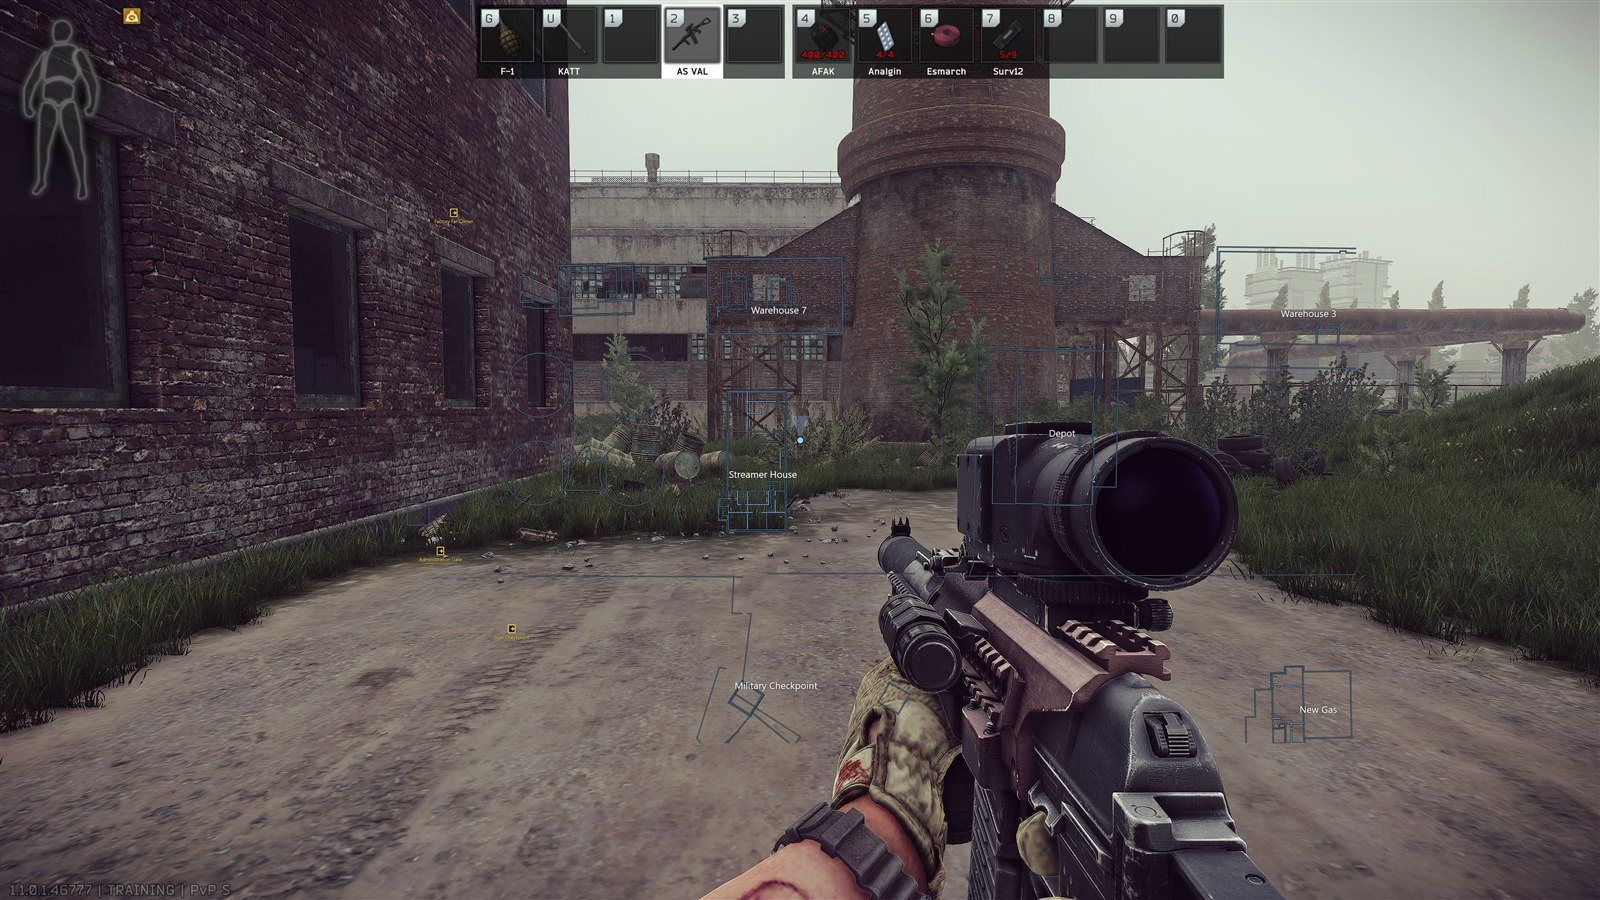
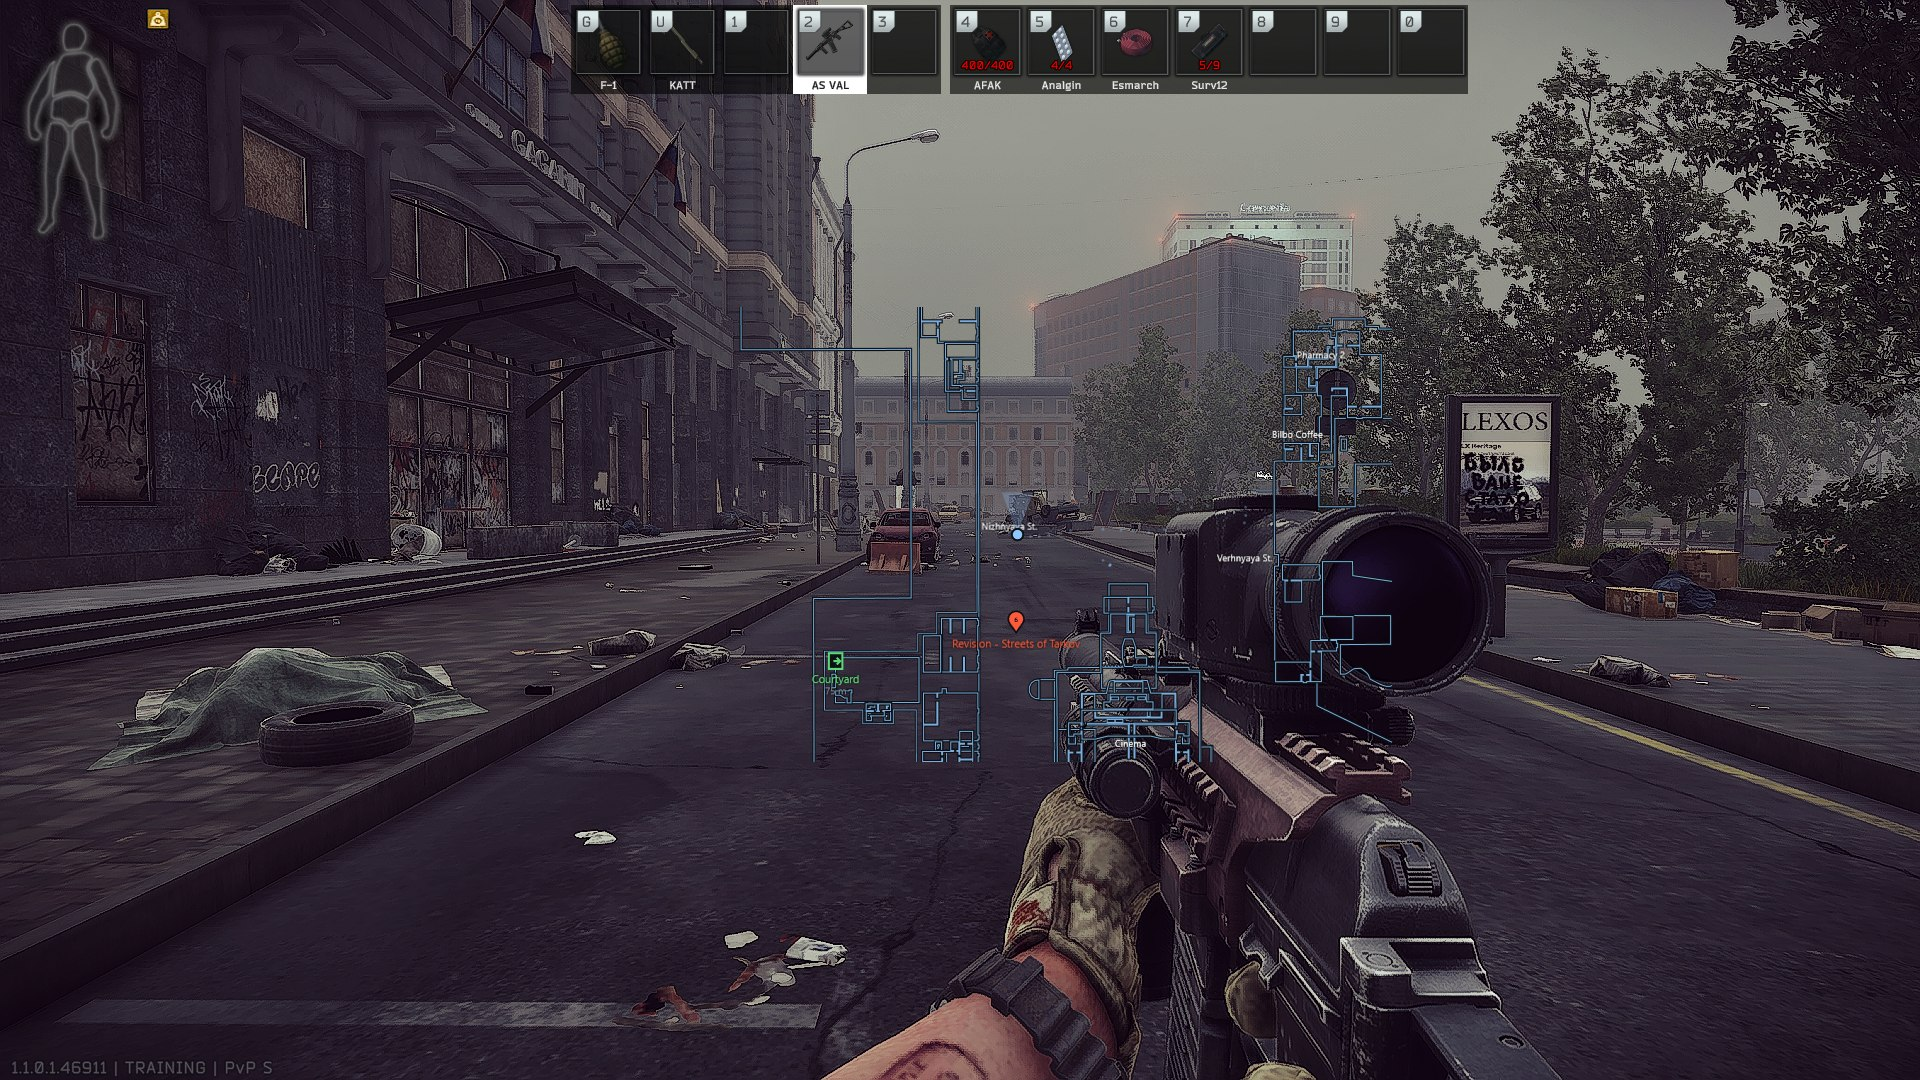
New screenshots, taken at 1080p on the defaults being shipped
The old pair were taken before a day of tuning and show an overlay nobody would
now recognise: the panel at roughly twice the size it ships at, a quest log
rather than a waypoint list, and the centred view as a full-screen HUD rather
than the placed window it defaults to.

Both are the real thing at 1080p on the settings a new install now gets. The
centred one is on Streets, which shows what that view is for better than Customs
did — building outlines and shop names over a street you cannot see the end of.

The caption for it says what it actually does now, including that it keeps you
in the middle and turns around you, and that the full-screen HUD is the top of
its coverage dial rather than a separate thing.

diff --git a/README.md b/README.md
@@ -39,14 +39,16 @@ A **panel in the corner**, out of the way: your plan's quests numbered to match 
 map, the items to look for beside it, and the real map with extracts and place names. The key
 bindings sit along the bottom so you never have to remember them.
 
-![The RatNav panel over a raid on Customs: the quest log numbered to match the pins on the map, the items to look for beside it, the map with extracts and place names, and the key bindings along the bottom](docs/screenshot-overlay.jpg)
+![The RatNav panel over a raid on Customs: a waypoint list numbered to match the pins on the map, the watchlist and tracked collections beneath it, the map with extracts and place names beside them, and the key bindings along the bottom](docs/screenshot-overlay.jpg)
 
-Or the **whole screen as a HUD** — the same map drawn as glowing outlines over the game,
-dissolving toward the edges instead of stopping at a border, and turned so what is in front of you
-is up the screen. Clicks pass straight through it except on a control, so it can stay up while you
-play.
+Or the **centred view** — the same map drawn as glowing outlines over the game, dissolving toward
+the edges instead of stopping at a border, and **turned so what is in front of you is up the
+screen**. It keeps you in the middle of it: take a screenshot and the map moves and rotates around
+you rather than the other way about. Size and place it where you like, or turn the coverage dial up
+to 100% and it becomes a full-screen HUD. Clicks pass straight through it except on a control, so
+it can stay up while you play.
 
-![The same raid with RatNav's full-screen HUD: building outlines and place names drawn as glowing lines over the game, fading out toward the edges of the screen](docs/screenshot-hud.jpg)
+![RatNav's centred view over a raid on Streets of Tarkov: building outlines drawn as glowing blue lines over the game with street and shop names on them, a red quest waypoint and a green extract marked, all above the player's weapon and the game's own interface](docs/screenshot-hud.jpg)
 
 **Before you queue**, the app: tick the objectives you are pushing and it builds the route, works
 out which keys you have to bring, and assembles the shopping list. There is a tour of every page
